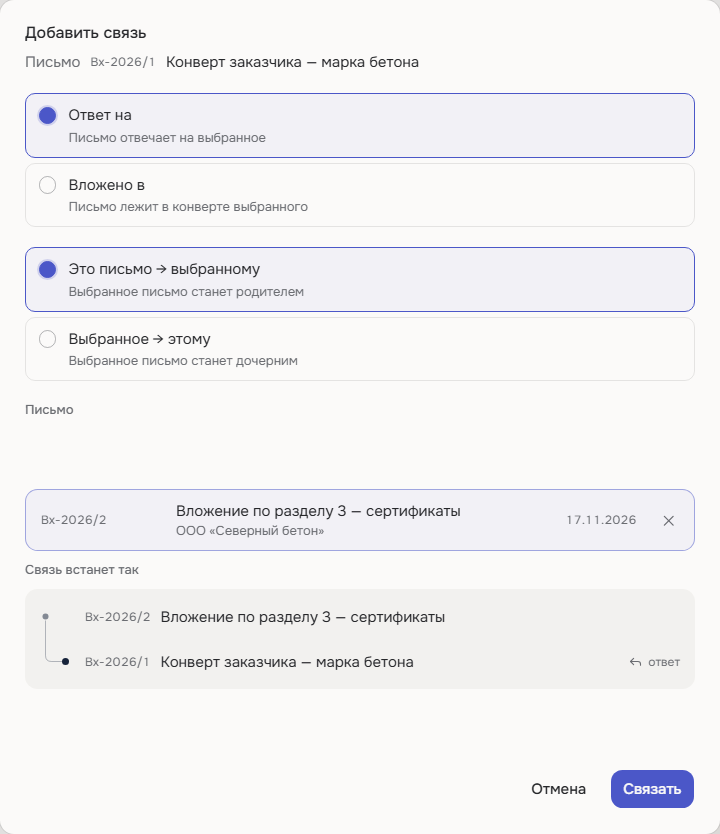
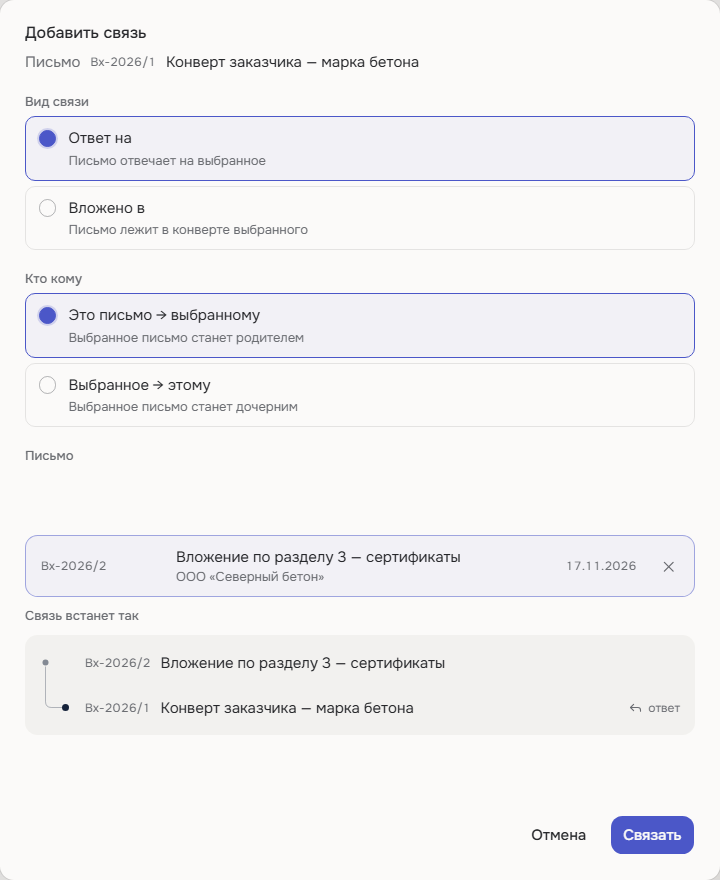
fix(web): видимые подписи групп в окне связи — «Вид связи» и «Кто кому» (#611)
В кадре владельца четыре строки читались одним списком: подписи групп были
только для скринридера, и «Ответ на» выглядело направлением, а не видом связи.

- над каждой группой — видимая подпись (`kindLabel` / `directionLabel`);
- кадры пересняты: прямое направление, обратное, сценарий конверта
  («Вложено в» + «Выбранное → этому»), поставленная связь, тёмная тема.

diff --git a/apps/web/src/features/correspondence/components/card/letter-relation-mode-choices.tsx b/apps/web/src/features/correspondence/components/card/letter-relation-mode-choices.tsx
@@ -55,22 +55,34 @@ export function RelationModeChoices({
   ];
   return (
     <>
-      <ModeChoices
-        value={kind}
-        options={kinds}
-        disabled={disabled}
-        ariaLabel={ui.letters.relations.kindLabel}
-        onChange={onKind}
-      />
+      {/* Видимые подписи групп (#611): без них четыре строки читаются как один
+          список, и «Ответ на» выглядит направлением, а не видом связи. */}
+      <div className="flex min-w-0 flex-col gap-1">
+        <span className="text-xs font-medium text-muted-foreground">
+          {ui.letters.relations.kindLabel}
+        </span>
+        <ModeChoices
+          value={kind}
+          options={kinds}
+          disabled={disabled}
+          ariaLabel={ui.letters.relations.kindLabel}
+          onChange={onKind}
+        />
+      </div>
       {/* Направление (#611): «вложить в этот конверт уже зарегистрированное
           письмо» — без ухода с карточки; предпросмотр показывает местами. */}
-      <ModeChoices
-        value={direction}
-        options={directions}
-        disabled={disabled}
-        ariaLabel={ui.letters.relations.directionLabel}
-        onChange={onDirection}
-      />
+      <div className="flex min-w-0 flex-col gap-1">
+        <span className="text-xs font-medium text-muted-foreground">
+          {ui.letters.relations.directionLabel}
+        </span>
+        <ModeChoices
+          value={direction}
+          options={directions}
+          disabled={disabled}
+          ariaLabel={ui.letters.relations.directionLabel}
+          onChange={onDirection}
+        />
+      </div>
     </>
   );
 }
